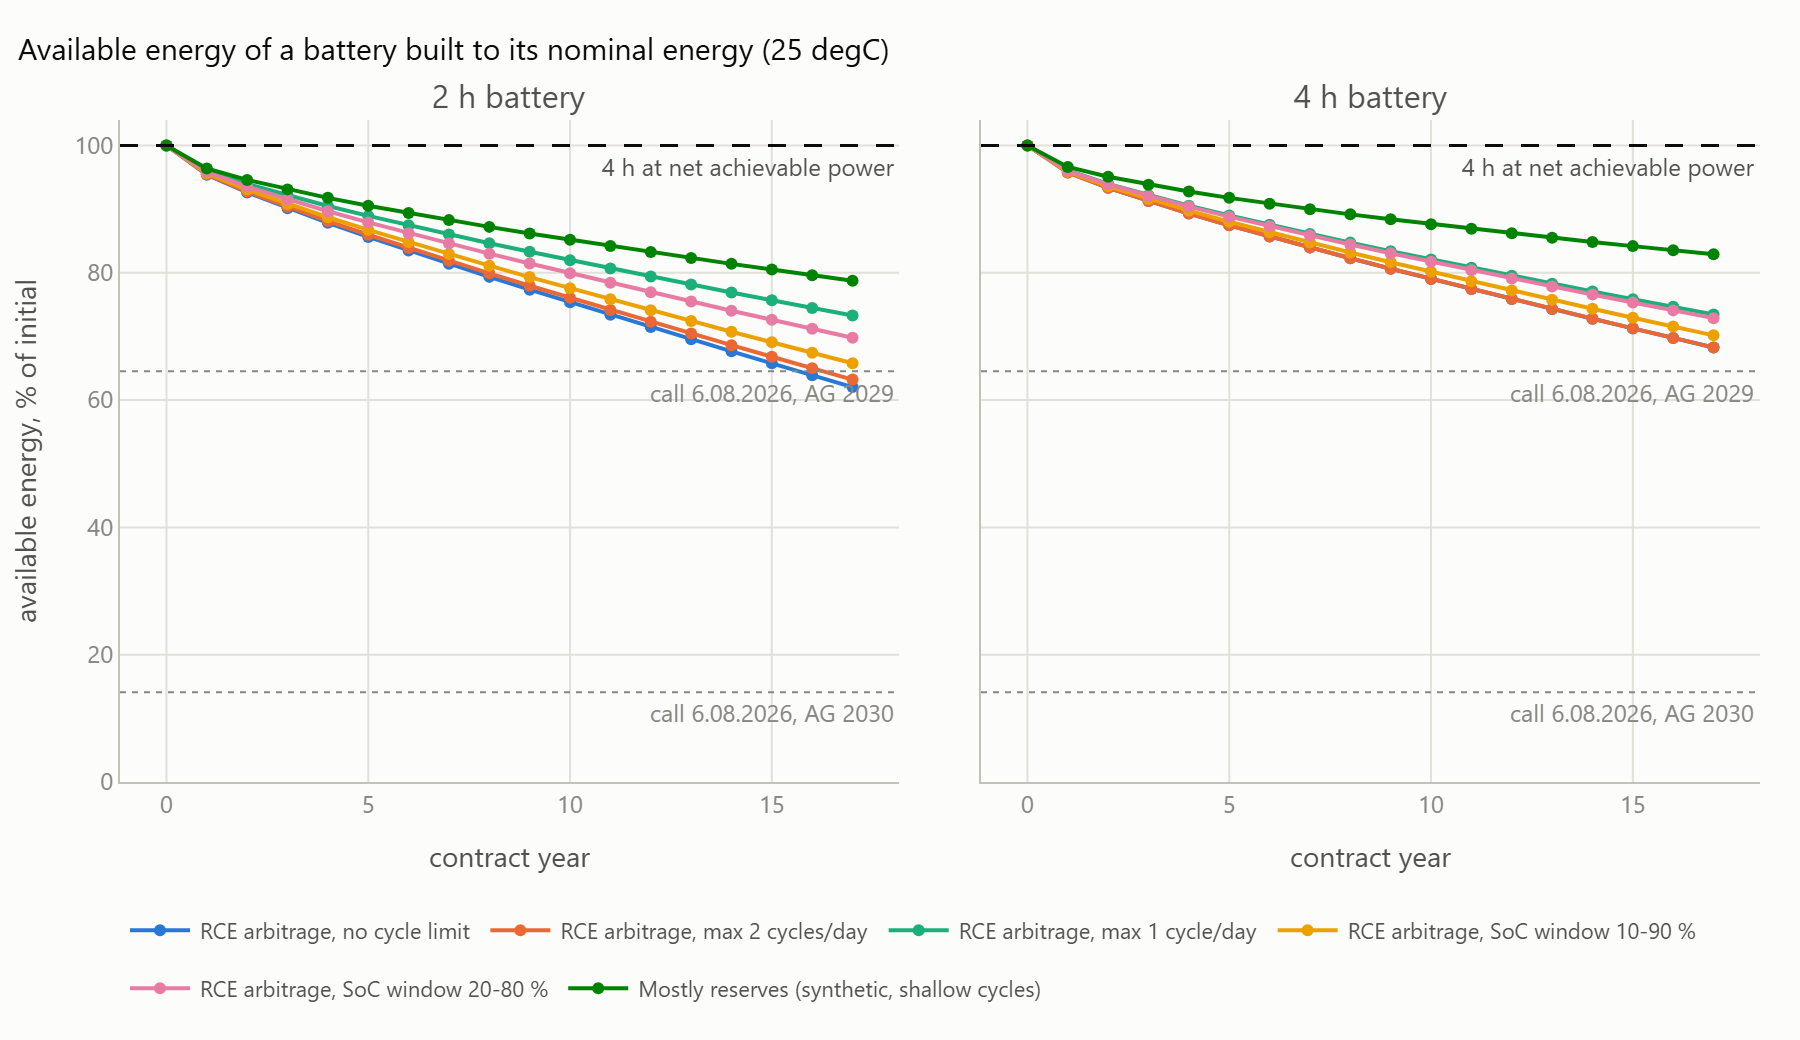
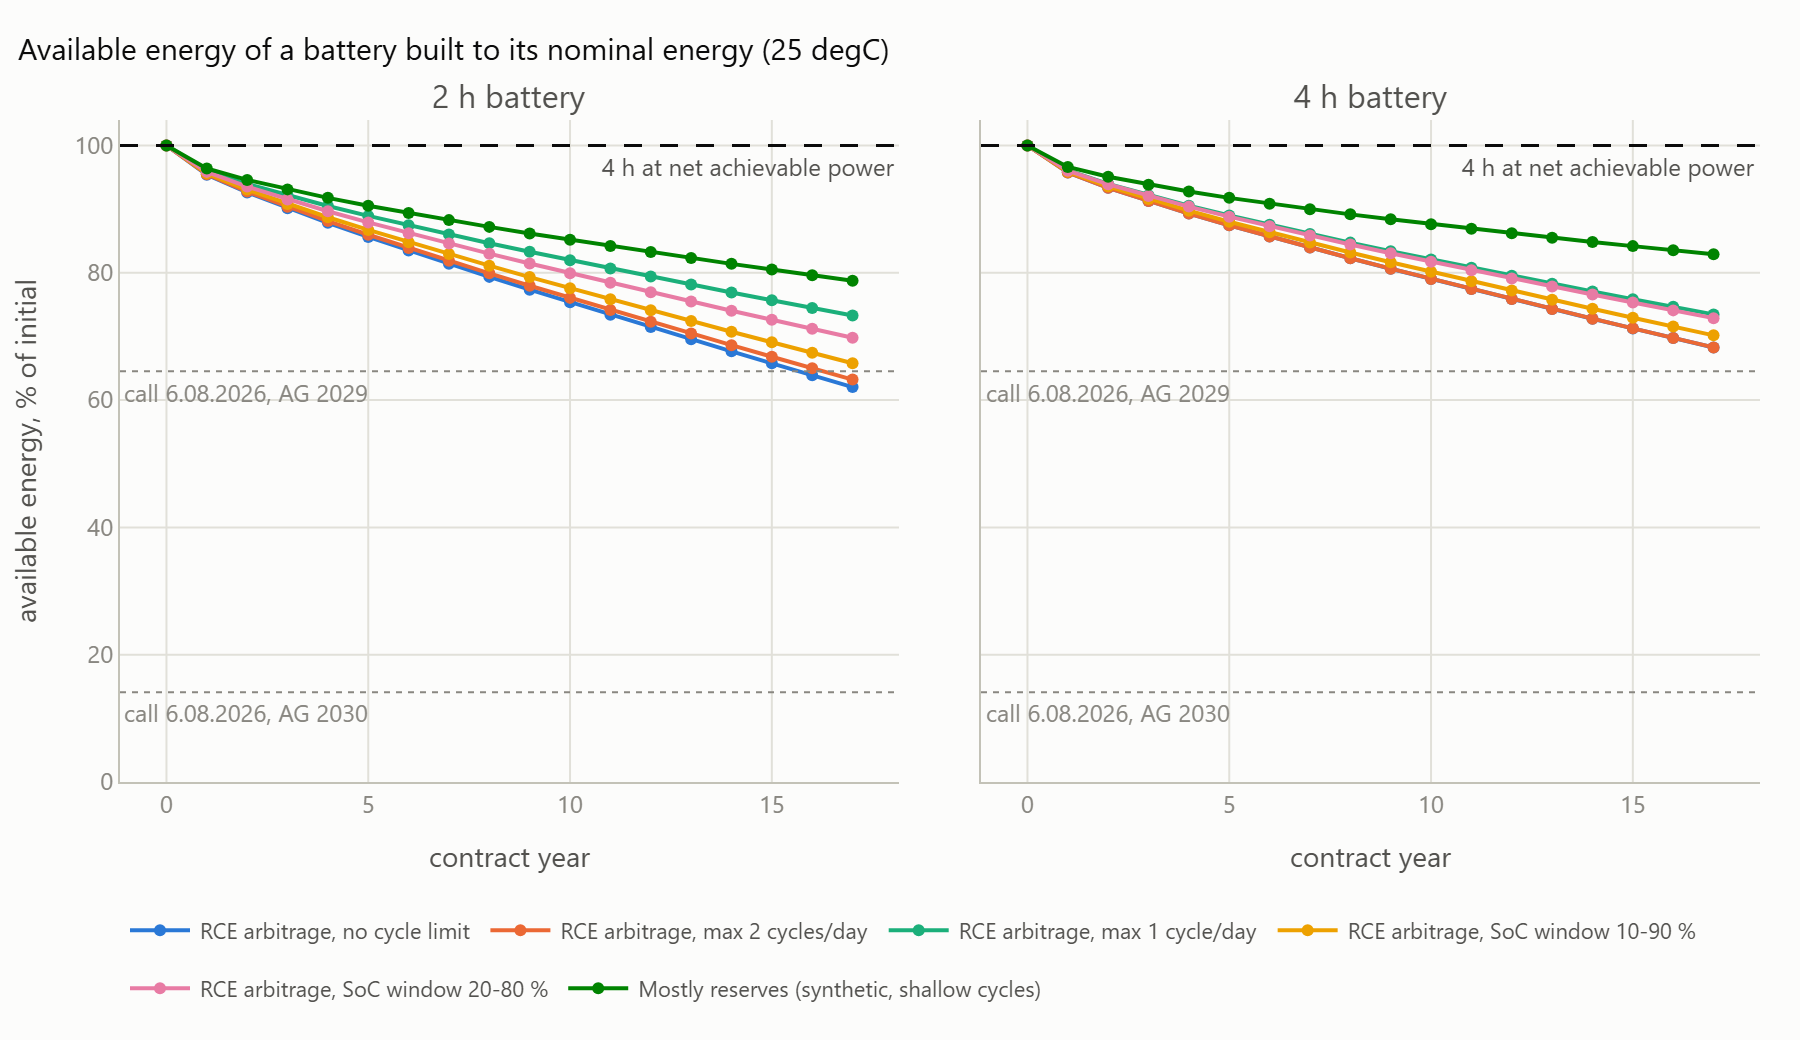
Charts: line labels clear of the curves; strategies table scrolls on phones
README charts: the call labels sit at the left end of their dotted lines, the
requirement labels in the middle under the dashed line and the throughput
allowance label at the top left, where no curve runs (they sat at the right end,
on converging lines).

Page: the strategies table scrolls inside its card, so the page no longer
scrolls sideways on phones. Layout only; results unchanged.

diff --git a/docs/index.html b/docs/index.html
@@ -70,7 +70,7 @@
     <div class="card"><h2>NPV of each strategy against the cheapest</h2><div id="npv" class="plot"></div></div>
     <div class="card"><h2>State of health of the initial modules</h2><div id="soh" class="plot"></div></div>
     <div class="card"><h2>Cash flows of the selected strategy</h2><div id="cf" class="plot"></div></div>
-    <div class="card wide"><h2>Strategies</h2><div id="table"></div></div>
+    <div class="card wide"><h2>Strategies</h2><div id="table" style="overflow-x: auto"></div></div>
   </div>
   <p class="note" id="note"></p>
 </main>

diff --git a/src/bess_augment/resources/dashboard.html b/src/bess_augment/resources/dashboard.html
@@ -70,7 +70,7 @@
     <div class="card"><h2>NPV of each strategy against the cheapest</h2><div id="npv" class="plot"></div></div>
     <div class="card"><h2>State of health of the initial modules</h2><div id="soh" class="plot"></div></div>
     <div class="card"><h2>Cash flows of the selected strategy</h2><div id="cf" class="plot"></div></div>
-    <div class="card wide"><h2>Strategies</h2><div id="table"></div></div>
+    <div class="card wide"><h2>Strategies</h2><div id="table" style="overflow-x: auto"></div></div>
   </div>
   <p class="note" id="note"></p>
 </main>

diff --git a/src/bess_augment/plots.py b/src/bess_augment/plots.py
@@ -77,7 +77,7 @@ def soh_by_profile(cfg: dict, paths: pd.DataFrame) -> go.Figure:
             call = C.requirement_mwh(cfg, 1.0, d, v, mode="call") / d * 100
             if call < 99:
                 fig.add_hline(call, line=dict(color=MUTED, width=1, dash="dot"), row=1, col=j,
-                              annotation_text=f"call 6.08.2026, {spec['label']}", annotation_position="bottom right",
+                              annotation_text=f"call 6.08.2026, {spec['label']}", annotation_position="bottom left",
                               annotation_font_color=MUTED)
     fig.update_xaxes(title_text="contract year")
     fig.update_yaxes(title_text="available energy, % of initial", row=1, col=1)
@@ -120,7 +120,7 @@ def strategy_energy(cfg: dict, paths: pd.DataFrame, profile: str) -> go.Figure:
                             hovertemplate="%{y:.2f} MWh<extra>" + STRATEGIES[s] + "</extra>")
         req = C.requirement_mwh(cfg, 1.0, d)
         fig.add_hline(req, line=dict(color=INK, width=1.5, dash="dash"), row=1, col=j,
-                      annotation_text="requirement", annotation_font_color=INK2)
+                      annotation_text="requirement", annotation_position="bottom", annotation_font_color=INK2)
         fig.update_yaxes(title_text="available energy, MWh" if j == 1 else None, row=1, col=j)
     fig.update_xaxes(title_text="contract year")
     return _layout(fig, f"Available energy by strategy ({_plabel(cfg, profile)}, {t:g} degC)", height=470)
@@ -177,7 +177,7 @@ def risk_bands(cfg: dict, bands: pd.DataFrame, duration: float, profile: str) ->
         fig.add_scatter(x=q["year"], y=q["p50"], name=name + " (median, 5-95 %)", legendgroup=name,
                         line=dict(color=color, width=2), hovertemplate="%{y:.2f} MWh<extra>" + name + "</extra>")
     fig.add_hline(C.requirement_mwh(cfg, 1.0, duration), line=dict(color=INK, width=1.5, dash="dash"),
-                  annotation_text="requirement", annotation_font_color=INK2)
+                  annotation_text="requirement", annotation_position="bottom", annotation_font_color=INK2)
     fig.update_xaxes(title_text="contract year")
     fig.update_yaxes(title_text="available energy at year end, MWh")
     return _layout(fig, f"Uncertainty of the ageing model: {duration:g} h battery, {_plabel(cfg, profile)}",
@@ -240,7 +240,7 @@ def warranty_chart(cfg: dict, warranty: pd.DataFrame) -> go.Figure:
                             legendgroup=name, showlegend=j == 1, line=dict(color=PROF_COLOR[name], width=2),
                             row=1, col=j, hovertemplate="%{y:,.0f} cycles<extra>" + _plabel(cfg, name) + "</extra>")
         fig.add_hline(w["fec_total"], line=dict(color=INK, width=1.5, dash="dash"), row=1, col=j,
-                      annotation_text="throughput allowance", annotation_font_color=INK2)
+                      annotation_text="throughput allowance", annotation_position="top left", annotation_font_color=INK2)
     fig.update_xaxes(title_text="year of operation")
     fig.update_yaxes(title_text="cumulative equivalent full cycles", row=1, col=1)
     return _layout(fig, f"Throughput against a generalised warranty ({w['fec_per_year']:g} cycles/year, "
